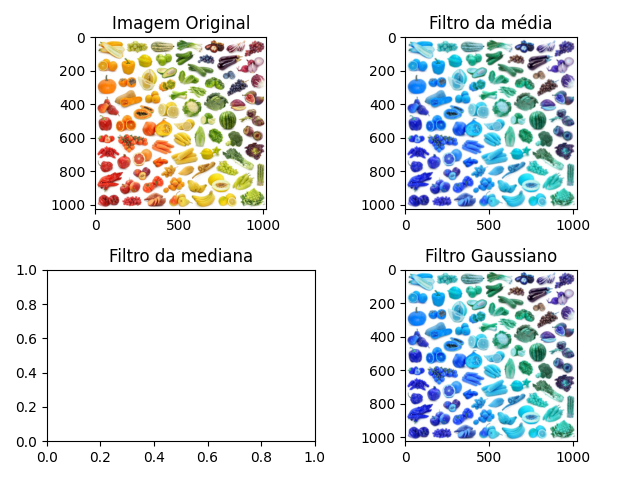
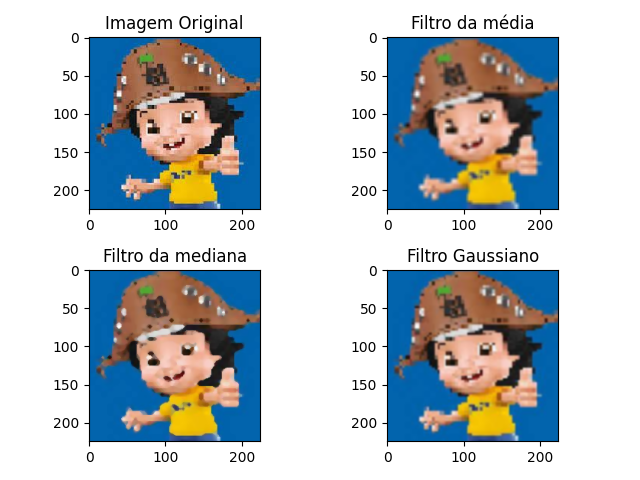
Final commit atividade2 questao_02

diff --git a/atividade2/questao_02.py b/atividade2/questao_02.py
@@ -3,7 +3,7 @@ import matplotlib.pyplot as plt
 
 # Abrindo imagem
 
-image_path = 'frutas.jpg'
+image_path = 'imagem3.jpg'
 image = cv2.imread(image_path)
 
 image_rgb = cv2.cvtColor(image, cv2.COLOR_BGR2RGB)
@@ -12,13 +12,13 @@ plt.axis('off')
 
 
 # Filtro da média
-blurred_image_mean = cv2.blur(image, (5,5))
+blurred_image_mean = cv2.blur(image_rgb, (5,5))
 
 # Filtro da mediana
-...
+blurred_image_medi = cv2.medianBlur(image_rgb, 5)
 
 # Filtro Gaussiano
-blurred_image_gaus = cv2.GaussianBlur(image, (5,5), 0)
+blurred_image_gaus = cv2.GaussianBlur(image_rgb, (5,5), 0)
 
 
 
@@ -34,7 +34,7 @@ plt.imshow(blurred_image_mean)
 plt.title('Filtro da média')
 
 plt.subplot(2, 2, 3)
-#plt.imshow()
+plt.imshow(blurred_image_medi)
 plt.title('Filtro da mediana')
 
 plt.subplot(2, 2, 4)
